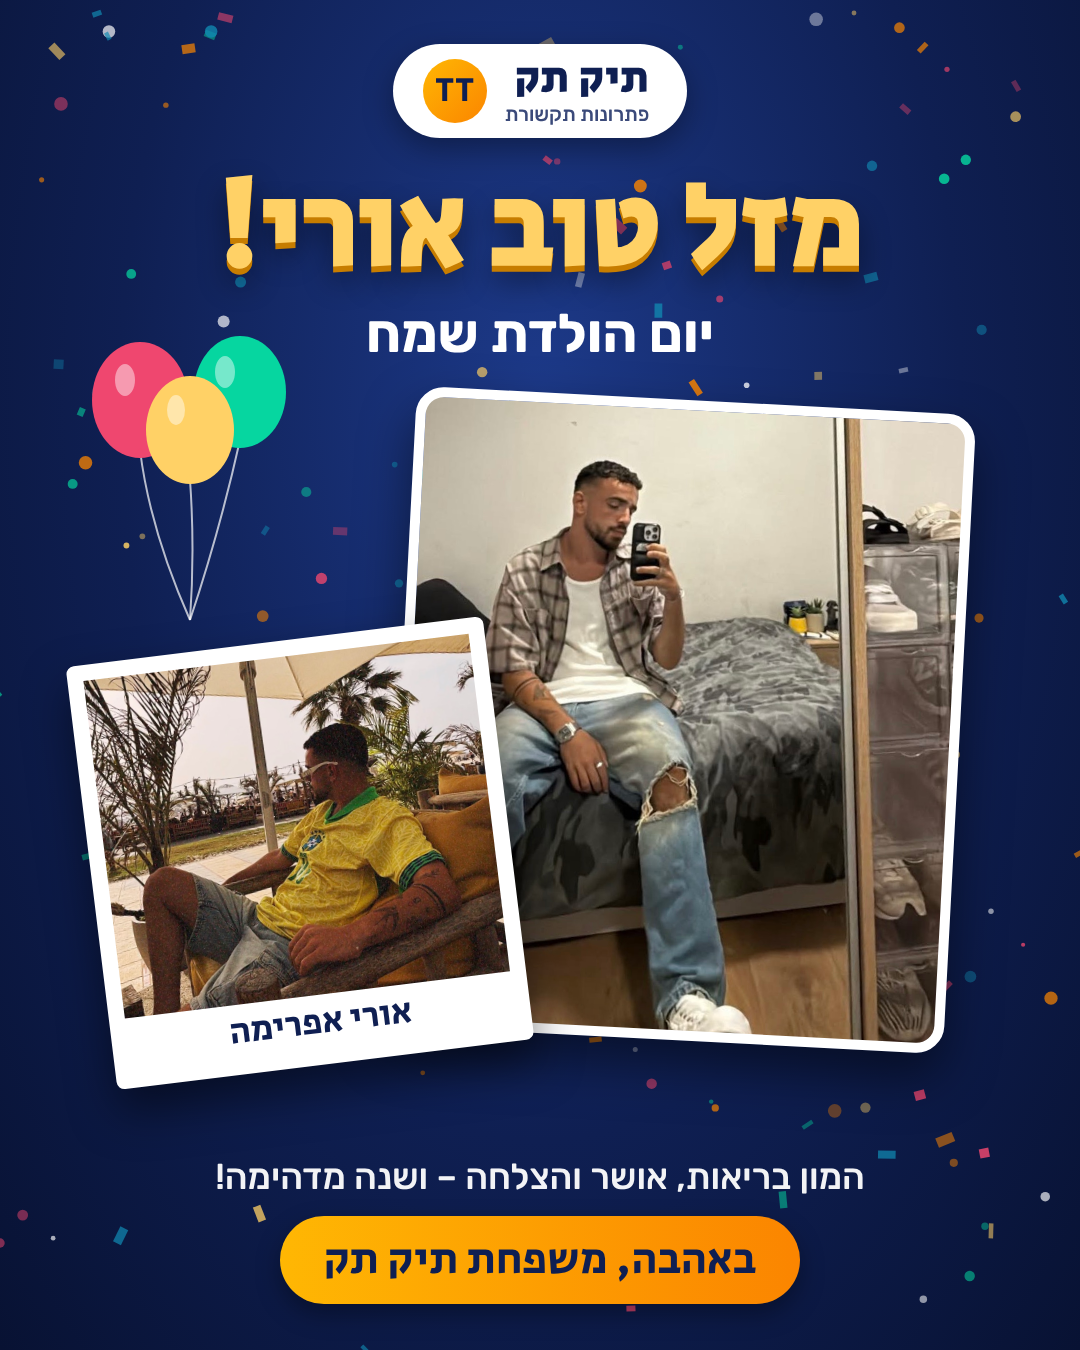
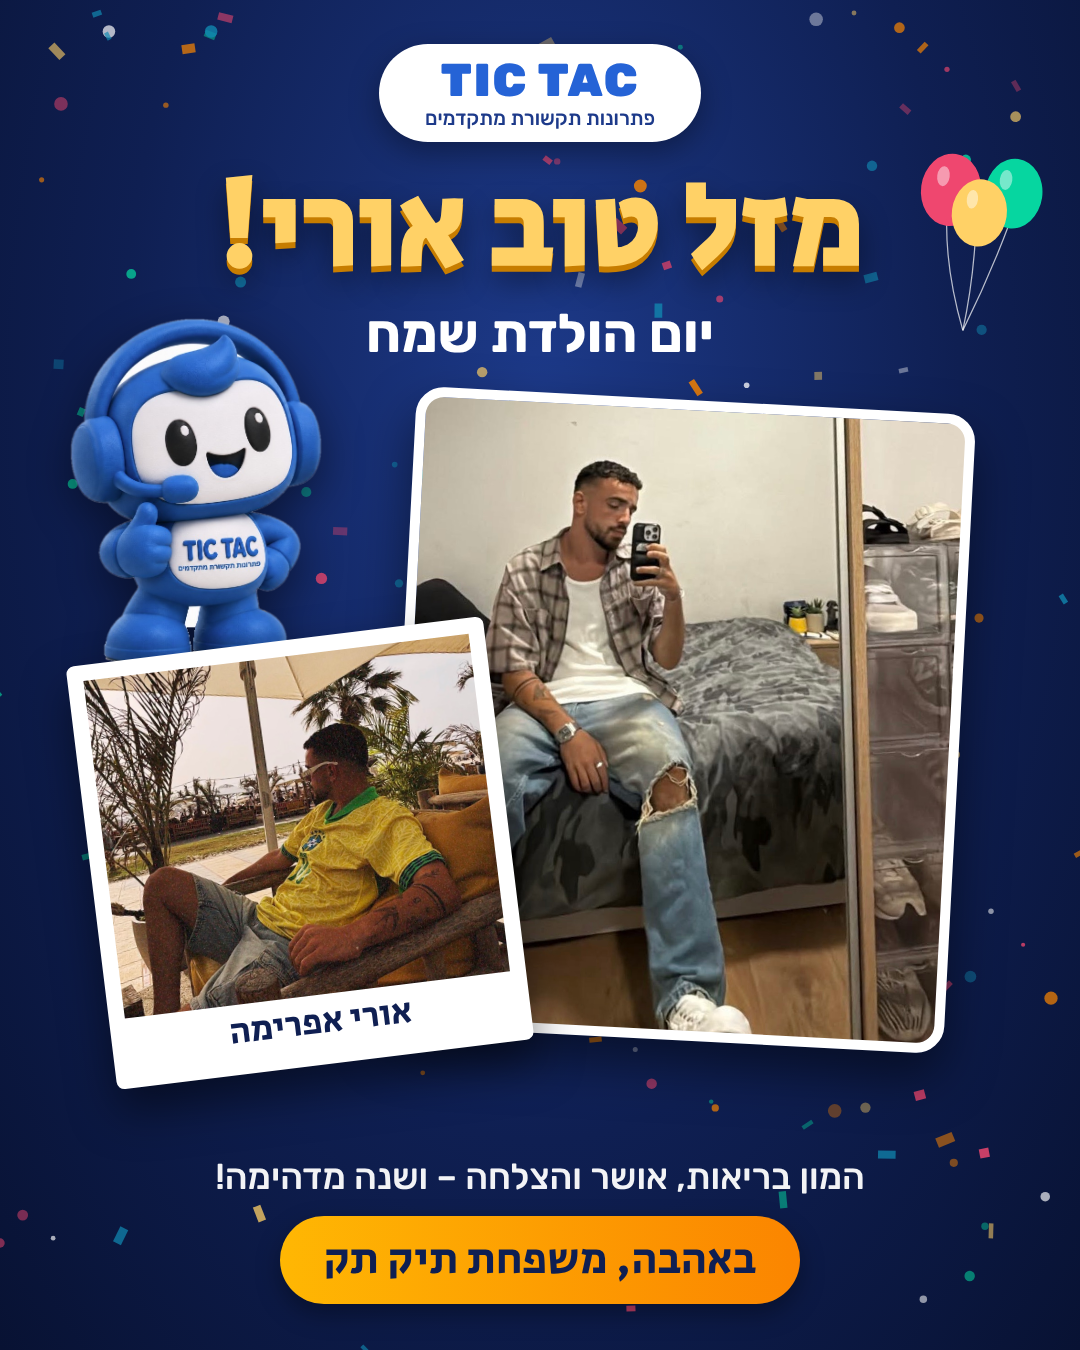
Use TIC TAC mascot and branding on Ori's birthday card
Claude-Session: https://claude.ai/code/session_01EawPUmyn7imTugXACCqQEZ

diff --git a/ori_birthday/card.html b/ori_birthday/card.html
@@ -10,11 +10,11 @@
     background:radial-gradient(ellipse at 50% 30%,#1d3a8a 0%,#0f1f52 55%,#081233 100%);position:relative}
   #confetti{position:absolute;inset:0;pointer-events:none}
   .logo{position:absolute;top:44px;left:0;right:0;display:flex;justify-content:center}
-  .logo-box{display:flex;align-items:center;gap:18px;background:#fff;border-radius:999px;padding:14px 38px 14px 30px;box-shadow:0 10px 30px rgba(0,0,0,.35)}
+  .logo-box{display:flex;align-items:center;gap:18px;background:#fff;border-radius:999px;padding:14px 46px;box-shadow:0 10px 30px rgba(0,0,0,.35)}
   .logo-mark{width:64px;height:64px;border-radius:50%;background:linear-gradient(135deg,#ffb703,#fb8500);display:flex;align-items:center;justify-content:center;font-family:'Secular One';font-size:34px;color:#0f1f52}
   .logo-text{line-height:1}
-  .logo-text b{display:block;font-family:'Secular One';font-size:42px;color:#0f1f52;letter-spacing:1px}
-  .logo-text span{display:block;font-size:20px;color:#3b4a7a;font-weight:500;margin-top:4px}
+  .logo-text{text-align:center}.logo-text b{display:block;font-family:'Rubik';font-weight:900;font-size:46px;color:#2563d6;letter-spacing:2px}
+  .logo-text span{display:block;font-size:20px;color:#1d3a8a;font-weight:500;margin-top:4px}
   .title{position:absolute;top:170px;left:0;right:0;text-align:center}
   .title h1{font-family:'Secular One';font-size:118px;line-height:1;color:#ffd166;text-shadow:0 6px 0 #c77d00,0 14px 30px rgba(0,0,0,.45)}
   .title h2{font-size:54px;font-weight:700;margin-top:14px}
@@ -29,15 +29,15 @@
   .footer .wish{font-size:36px;font-weight:500;opacity:.95}
   .footer .from{display:inline-block;margin-top:18px;background:linear-gradient(90deg,#ffb703,#fb8500);color:#0f1f52;
     font-family:'Secular One';font-size:44px;padding:12px 44px;border-radius:999px;box-shadow:0 10px 24px rgba(0,0,0,.35)}
-  .balloons{position:absolute;top:330px;left:70px;width:240px}
+  .balloons{position:absolute;top:150px;right:30px;width:150px;transform:rotate(8deg)}
+  .mascot{position:absolute;top:318px;left:70px;height:345px;filter:drop-shadow(0 14px 22px rgba(0,0,0,.45))}
 </style>
 </head>
 <body>
 <svg id="confetti" viewBox="0 0 1080 1350"></svg>
 
 <div class="logo"><div class="logo-box">
-  <div class="logo-text"><b>תיק תק</b><span>פתרונות תקשורת</span></div>
-  <div class="logo-mark">TT</div>
+  <div class="logo-text"><b dir="ltr">TIC TAC</b><span>פתרונות תקשורת מתקדמים</span></div>
 </div></div>
 
 <div class="title">
@@ -57,6 +57,7 @@
   <ellipse cx="106" cy="80" rx="9" ry="15" fill="#fff" opacity=".45"/>
 </svg>
 
+<img class="mascot" src="tictac_mascot.png" alt="">
 <div class="photo-main"></div>
 <div class="polaroid"><div></div><p>אורי אפרימה</p></div>
 
